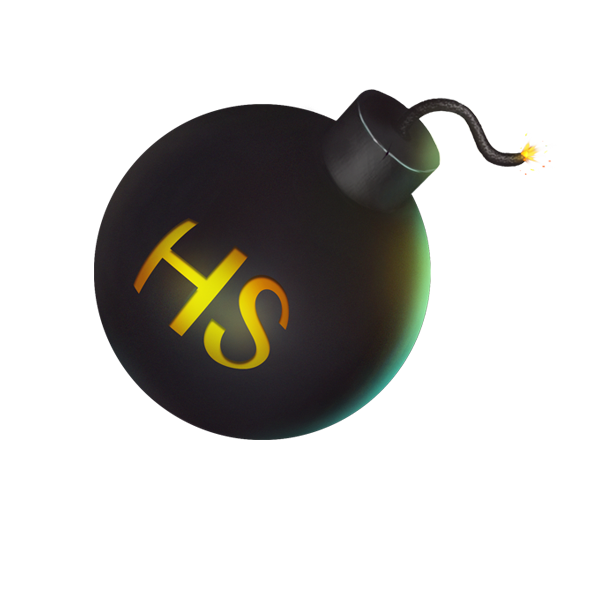
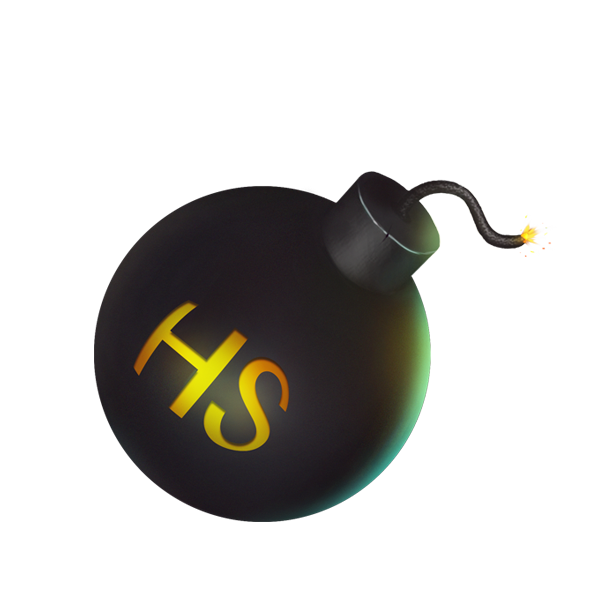
chagne

Changed region(s): [[0.15, 0.15, 0.9, 0.87]]

diff --git a/Public/css/sharepage.css b/Public/css/sharepage.css
@@ -27,7 +27,7 @@ body{
 #monster{
 	width: 90%;
     position: absolute;
-    top: 12%;
+    top: 10%;
     margin-left: 5%;
 }
 
